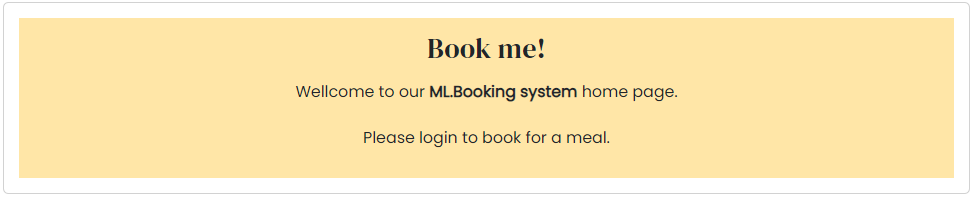
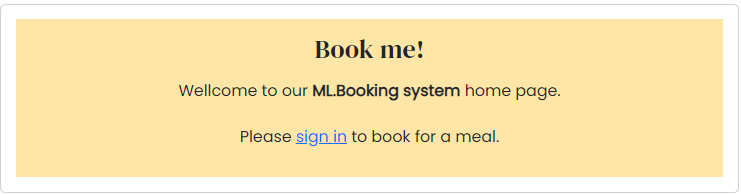
Docs:continue add features and images

diff --git a/booking/templates/booking/make_reservation.html b/booking/templates/booking/make_reservation.html
@@ -27,7 +27,7 @@
             >&laquo; Back</a
           >
         </div>
-        
+        <!--
         {% for field in reservation_form %}
           {% if field.errors %}
             <div class="error">{{ field.errors }}</div>
@@ -35,7 +35,7 @@
         {% endfor %}
         
         <p>Errors: {{ reservation_form.errors }}</p>
-      
+      -->
       </form>
     </div>
   </div>

diff --git a/README.md b/README.md
@@ -214,31 +214,68 @@ The visual look of the website is simple:
     - It leads to external links for social media for contacting.
       ![](/static/images/features/desktop-header2.png)
 
-- Landing page:
+- Landing page:  
   The landing page is a wellcome message that takes less than the full page size.
   - It changes according to the user state.
   - For logged-in users it displayes a button to show all bookings related to this user,  
-    and another to book for a meal.
+    and another one to book for a meal.
   - When not loggedin user visit he will be asked to login to book for a meal.
+  - Added new feature to enable user to sign in direct from within the wellcome message.
 
     ![](/static/images/features/landing.png)
 
     ![](/static/images/features/landing2.png)
 
-- Register:
+- Register:  
   The site provides a full responsive page for users to register an account.
-  - It can ba accesed from the navigation bar or as a link in the sign in page.
+  - It can be accessed from the navigation bar or as a link in the sign in page.
   - The registration pege is a responsive form.
-  - It uses Django-allauth with settings for authentication with the fields:
-    - Username
-    - Email(optional)
-    - Password(repeat)
+  - It uses Django-allauth and settings for authentication with the fields:
+    - Username.
+    - Email(optional).
+    - Password.
+    - Password(repeat).
   - There is a button to signup using bootstrap effects with a hover over.
-  - After registration the user in redirected to the main page.
+  - After registration the user is redirected to the main page.
 
     ![](/static/images/features/desktop-register.png)
 
     ![](/static/images/features/mobile-register.png)
+
+- Login:  
+  The login page is full responsive and can be accessed from the navbar on top.
+  - It is accessed also from the main page if the user not logged in or from sign up page.
+  - It uses Django-allauth and settings for authentication with the fields:
+    - Username.
+    - Password.
+  - There is a button to sign in using bootstrap effects with a hover over.
+  - After signing in the user is redirected to the main page.
+  - A message shows after a successfull login under the navbar.
+
+    ![](/static/images/features/mobile-signin.png)
+
+    ![](/static/images/features/desktop-signin.png)
+
+    ![](/static/images/features/signin-message.png)
+
+- Logout:  
+  The website provides a functionality for the logged-in users to logout.
+  - The logout page is resposive.
+  - It warns the user before logging out.
+  - It can be accessed from the navbar only.
+  - It is available only for logged-in users.
+  - There is a button to signout using bootstrap effects with a hover over.
+  - A message shows after logout under the navbar.
+
+  ![](/static/images/features/signout.png)
+
+  ![](/static/images/features/signout-message.png)
+
+The register, login and logout pages are consistent and have the same look and appearance.
+
+- Make Booking:
+  The "make booking" page is a full responsive form and enables users to book for a meal.
+  - It is available only when user in logged in.
 
 
 **Features Left to Implement**
